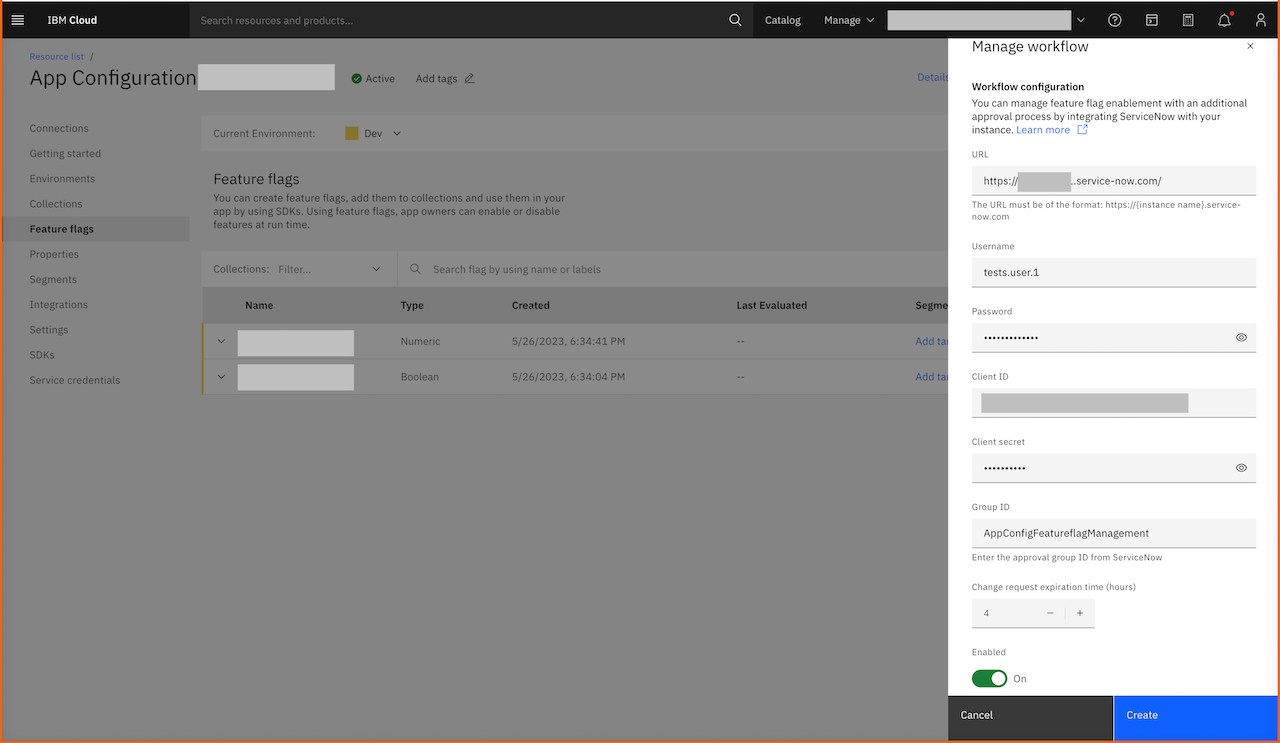
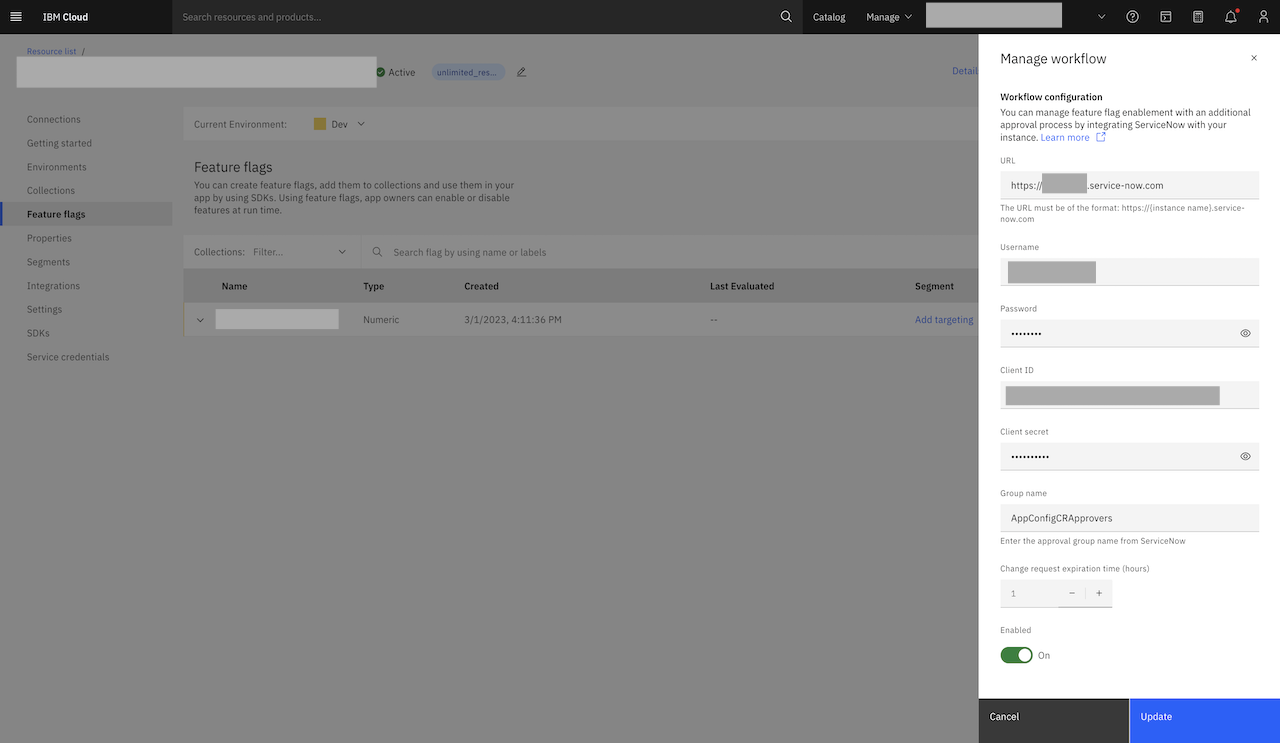
Refactored the group Id to name and changed the image, added the optimized script (#193)
* added the AT events missing

* added new missing image

* removed unwanted column

* refactored description

* fixed description

* Modified the image and refactored group id to name

* added the script

* indented the webhook script along with small corrections

* indented the javascript codeblock

diff --git a/ac-manage-workflow.md b/ac-manage-workflow.md
@@ -49,7 +49,7 @@ To integrate with ServiceNow workflow, perform the following steps:
 
 1. Enter the **Client secret** required for authenticating the *Client ID* provided earlier.
 
-1. Enter the approval **Group ID** defined in ServiceNow. The approval Group ID will contain set of people who are authorized to approve the Change Requests created in the ServiceNow workflow.
+1. Enter the approval **Group Name** defined in ServiceNow. The approval Group Name will contain set of people who are authorized to approve the Change Requests created in the ServiceNow workflow.
 
 1. Set the Change request expiration time (in hours). Minimum 1 to maximum 999 hours.
 
@@ -126,97 +126,97 @@ Follow these steps to register or add webhook script to your ServiceNow instance
 1. In the **Advanced** option tab, add the webhook script.
 
    ```javascript
-   (function executeRule(current, previous /*null when async*/ ) {
+   (function executeRule(current, previous /*null when async*/) {
       try {
-         //creating the glider Encrypt object
-         var glideEncrypt = new GlideEncrypter();
-         //fetching the sys_property that contains the IAM key
-         var encryptedIbmIAMKey = gs.getProperty('<Add System property name which holds the IBM IAM key (Case Sensitive)>');
-         //example: var encryptedKey = gs.getProperty('WorkflowAppConfigIamKey');
-         //Decrypting the key
-         var decryptedIAMKey = glideEncrypt.decrypt(encryptedIbmIAMKey);
+         if (current.u_appconfiguration_tag == "appconfig-workflow" && (current.state == -1 || current.state == -5 || current.state == 4)) {
+               //creating the glider Encrypt object
+               var glideEncrypt = new GlideEncrypter();
+               //fetching the sys_property that contains the IAM key
+               var encryptedIbmIAMKey = gs.getProperty('<Add System property name which holds the IBM IAM key (Case Sensitive)>');
+               //example: var encryptedKey = gs.getProperty('WorkflowAppConfigIamKey'); 
+               //Decrypting the key
+               var decryptedIAMKey = glideEncrypt.decrypt(encryptedIbmIAMKey);
+               gs.addInfoMessage("IBM KEY DECRYPTION COMPLETED");
+               if (Object.keys(decryptedIAMKey).length !== 0) {
+                  gs.addInfoMessage("CHANGE REQUEST IDENTIFIED AS WORKFLOW RELATED");
+                  //Adding the decrypted key to the IAM token generation body
+                  var bodyContent = "grant_type=urn:ibm:params:oauth:grant-type:apikey&apikey=" + decryptedIAMKey;
+                  //Making POST call to IBM IAM to generate token
+                  var ibmIamTokenRequest = new sn_ws.RESTMessageV2();
+                  ibmIamTokenRequest.setHttpMethod('POST');
+                  ibmIamTokenRequest.setEndpoint('https://iam.cloud.ibm.com/identity/token');
+                  ibmIamTokenRequest.setRequestBody(bodyContent);
+                  ibmIamTokenResponse = ibmIamTokenRequest.execute();
+                  var ibmIamTokenResponseCode = ibmIamTokenResponse.getStatusCode();
+                  gs.addInfoMessage("IBM IAM TOKEN CREATION HTTP RESPONSE CODE: " + ibmIamTokenResponseCode);
+                  if (ibmIamTokenResponseCode == 200) {
+                     //parsing json response to extract the access_token
+                     var ibmIamTokenResponseData = JSON.parse(ibmIamTokenResponse.getBody());
 
-         if (Object.keys(decryptedIAMKey).length !== 0) {
+                     //extracting the access_token
+                     var access_token = ibmIamTokenResponseData.access_token;
+                     var encryptedInstanceId = gs.getProperty('<Add System property name which holds the AppConfig InstanceId (Case Sensitive)>');
+                     //example: var encryptedInstanceId = gs.getProperty('WorkflowIbmAppConfigInstanceId');
+                     var decryptedInstanceId = glideEncrypt.decrypt(encryptedInstanceId);
+                     gs.addInfoMessage("IBM APP CONFIG INSTANCE ID DECRYPTION COMPLETED");
+                     //preparing webhook request to forward
+                     var webHookRequest = new sn_ws.RESTMessageV2();
+                     //Refer link https://cloud.ibm.com/apidocs/app-configuration#endpoints-urls for more info on base URL
+                     //Choose the base url from below based on your AppConfig instance region
+                     //Dallas: https://us-south.apprapp.cloud.ibm.com
+                     //Washington DC: https://us-east.apprapp.cloud.ibm.com
+                     //London: https://eu-gb.apprapp.cloud.ibm.com
+                     //Sydney: https://au-syd.apprapp.cloud.ibm.com
 
-             //Adding the decrypted key to the IAM token generation body
-             var bodyContent = "grant_type=urn:ibm:params:oauth:grant-type:apikey&apikey=" + decryptedIAMKey;
-             //Making POST call to IBM IAM to generate token
-             var ibmIamTokenRequest = new sn_ws.RESTMessageV2();
-             ibmIamTokenRequest.setHttpMethod('POST');
-             ibmIamTokenRequest.setEndpoint('https://iam.cloud.ibm.com/identity/token');
-             ibmIamTokenRequest.setRequestBody(bodyContent);
-             ibmIamTokenResponse = ibmIamTokenRequest.execute();
-             var ibmIamTokenResponseCode = ibmIamTokenResponse.getStatusCode();
-             gs.info("IBM IAM Token generation http code: " + ibmIamTokenResponseCode);
-             if (ibmIamTokenResponseCode == 200) {
-                 //parsing json response to extract the access_token
-                 var ibmIamTokenResponseData = JSON.parse(ibmIamTokenResponse.getBody());
+                     webHookRequest.setEndpoint('{{AppConfigRegionBaseURL}}/apprapp/workflow/v1/instances/' + decryptedInstanceId + '/crevents');
+                     webHookRequest.setRequestHeader('Authorization', 'Bearer ' + access_token);
+                     webHookRequest.setHttpMethod('POST');
+                     webHookRequest.setRequestHeader("Accept", "application/json");
+                     webHookRequest.setRequestHeader("Content-Type", "application/json");
 
-                 //extracting the access_token
-                 var access_token = ibmIamTokenResponseData.access_token;
-                 var encryptedInstanceId = gs.getProperty('<Add System property name which holds the AppConfig InstanceId (Case Sensitive)>');
-                 //example: var encryptedInstanceId = gs.getProperty('WorkflowIbmAppConfigInstanceId');
-                 var decryptedInstanceId = glideEncrypt.decrypt(encryptedInstanceId);
+                     //preparing the data for the webhook request
+                     var webHookReqDataObject = new Object();
+                     //BELOW ARE THE DATA THAT IS NEEDED TO PROCESS THE REQUEST, MODIFYING OR ALTERING THE DATA OR THE ATTRIBUTE WILL RESULT IN WEBHOOK REQUEST FAILURE.
+                     webHookReqDataObject.operation = String(current.operation());
+                     webHookReqDataObject.short_description = String(current.short_description);
+                     webHookReqDataObject.change_request_id = String(current.number);
+                     webHookReqDataObject.description = String(current.description);
+                     webHookReqDataObject.cr_state = String(current.state);
+                     webHookReqDataObject.cr_approval_assignment_group = String(current.assignment_group);
+                     webHookReqDataObject.appconfiguration_tag = String(current.u_appconfiguration_tag);
+                     webHookReqDataObject.implementation_time = String(current.work_start);
+                     var webHookJsonStringData = JSON.stringify(webHookReqDataObject);
+                     gs.addInfoMessage(webHookJsonStringData);
+                     webHookRequest.setRequestBody(webHookJsonStringData);
 
-                 //preparing webhook request to forward
-                 var webHookRequest = new sn_ws.RESTMessageV2();
-                 //Refer link https://cloud.ibm.com/apidocs/app-configuration#endpoints-urls for more info on base URL
-                 //Choose the base url from below based on your AppConfig instance region
-                 //Dallas: https://us-south.apprapp.cloud.ibm.com
-                 //Washington DC: https://us-east.apprapp.cloud.ibm.com
-                 //London: https://eu-gb.apprapp.cloud.ibm.com
-                 //Sydney: https://au-syd.apprapp.cloud.ibm.com
-
-                 webHookRequest.setEndpoint('{{AppConfigRegionBaseURL}}/apprapp/workflow/v1/instances/'+decryptedInstanceId+'/crevents');
-                 webHookRequest.setRequestHeader('Authorization', 'Bearer ' + access_token);
-                 webHookRequest.setHttpMethod('POST');
-                 webHookRequest.setRequestHeader("Accept", "application/json");
-                 webHookRequest.setRequestHeader("Content-Type", "application/json");
-
-                 //preparing the data for the webhook request
-                 var webHookReqDataObject = new Object();
-                 //BELOW ARE THE DATA THAT IS NEEDED TO PROCESS THE REQUEST, MODIFYING OR ALTERING THE DATA OR THE ATTRIBUTE WILL RESULT IN WEBHOOK REQUEST FAILURE.
-                 webHookReqDataObject.operation = String(current.operation());
-                 webHookReqDataObject.short_description = String(current.short_description);
-                 webHookReqDataObject.change_request_id = String(current.number);
-                 webHookReqDataObject.description = String(current.description);
-                 webHookReqDataObject.cr_state = String(current.state);
-                 webHookReqDataObject.cr_approval_assignment_group = String(current.assignment_group);
-                 webHookReqDataObject.appconfiguration_tag = String(current.u_appconfiguration_tag);
-                 webHookReqDataObject.implementation_time = String(current.work_start);
-                 var webHookJsonStringData = JSON.stringify(webHookReqDataObject);
-                 gs.addInfoMessage(webHookJsonStringData);
-                 webHookRequest.setRequestBody(webHookJsonStringData);
-
-                //checking the change request has the tag, we only accept the CR with the below mentioned tag id
-                if (current.u_appconfiguration_tag == "appconfig-workflow" && (current.state == -1 || current.state == -5 || current.state == 4)) {
-                   gs.addInfoMessage("Sending request to Webhook Micro Service");
-                   var webHookResponse = webHookRequest.execute();
-                   httpResponseStatus = webHookResponse.getStatusCode();
-                   gs.addInfoMessage(" webhook api call response status_code:  " + httpResponseStatus);
-                   if (httpResponseStatus == 200) {
-                       gs.info("SUCCESSFULLY EXECUTED THE WEBHOOK CALL");
-                   } else {
-                       //try once more
-                       webHookResponse = webHookRequest.execute();
-                       httpResponseStatus = webHookResponse.getStatusCode();
-                       gs.info(" http response status_code:  " + httpResponseStatus);
-                       gs.log(webHookResponse.getBody());
-                   }
+                     //checking the change request has the tag, we only accept the CR with the below mentioned tag id 
+                     gs.addInfoMessage("SENDING REQUEST TO APP CONFIGURATION WEBHOOK HANDLER");
+                     var webHookResponse = webHookRequest.execute();
+                     httpResponseStatus = webHookResponse.getStatusCode();
+                     gs.addInfoMessage("APP CONFIGURATION WEBHOOK HANDLER RESPONSE CODE:  " + httpResponseStatus);
+                     if (httpResponseStatus == 200) {
+                           gs.addInfoMessage("SUCCESSFULLY EXECUTED THE WEBHOOK CALL");
+                     } else {
+                           //try once more
+                           webHookResponse = webHookRequest.execute();
+                           httpResponseStatus = webHookResponse.getStatusCode();
+                           gs.addInfoMessage("WEBHOOK CALL RETRY STATUS CODE:  " + httpResponseStatus);
+                           gs.addInfoMessage(webHookResponse.getBody());
+                     }
+                  } else {
+                     gs.addInfoMessage("IBM IAM TOKEN GENERATION FAILED");
+                  }
                } else {
-                   gs.info("CHANGE REQUEST DOES NOT BELONG TO WORKFLOW INTEGRATION");
+                  gs.addInfoMessage("DECRYPTED IAM KEY IS EMPTY OR NOT FOUND");
                }
-           } else {
-               gs.info('IBM IAM TOKEN GENERATION FAILED');
-           }
-       } else {
-           gs.info('DECRYPTED IAM KEY IS EMPTY OR NOT FOUND');
-       }
-    }
-   catch(ex) {
-       var message  = ex.getMessage();
-       gs.info(message);
-   }
+         } else {
+               gs.addInfoMessage("CR STATE : " + current.state + " CR APPCONFIGURATION TAG VALUE : " + current.u_appconfiguration_tag);
+               gs.addInfoMessage("CHANGE REQUEST DOES NOT BELONG TO WORKFLOW INTEGRATION OR STATE OF THE CR IS NOT VALID");
+         }
+      } catch (ex) {
+         var message = ex.getMessage();
+         gs.info(message);
+      }
    })(current, previous);
    ```
    {: codeblock}
